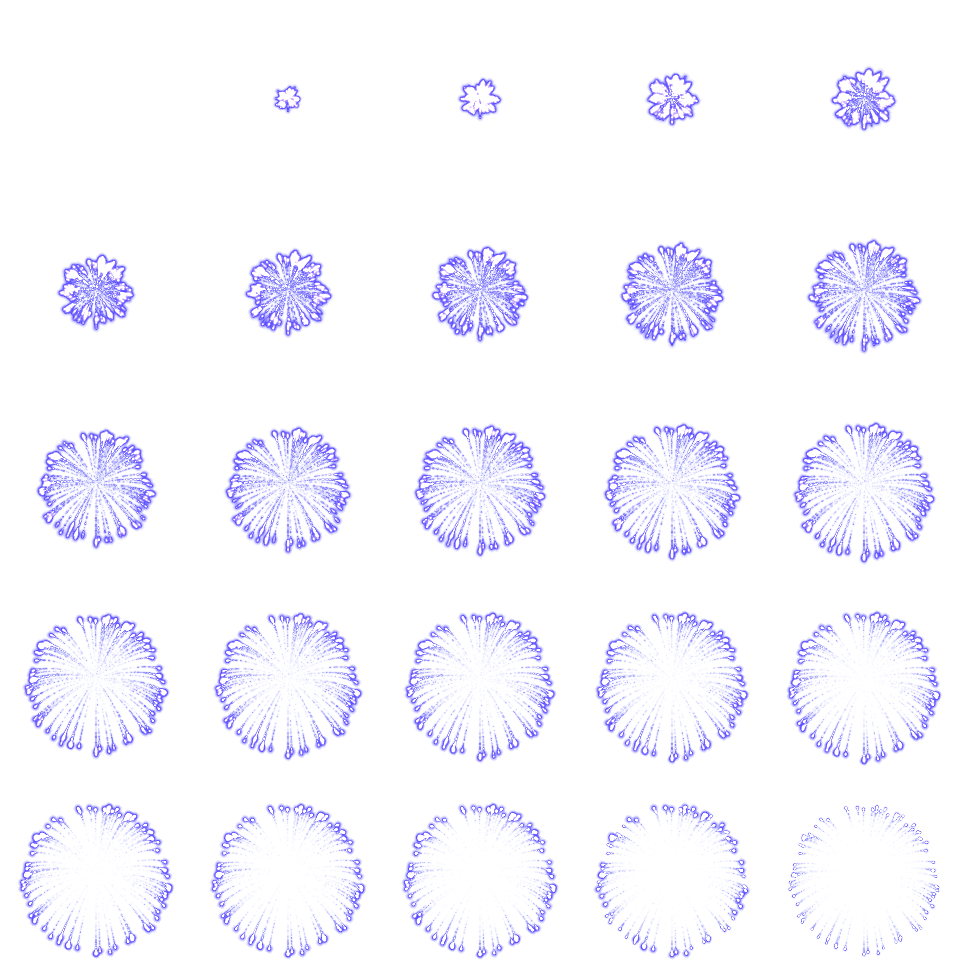
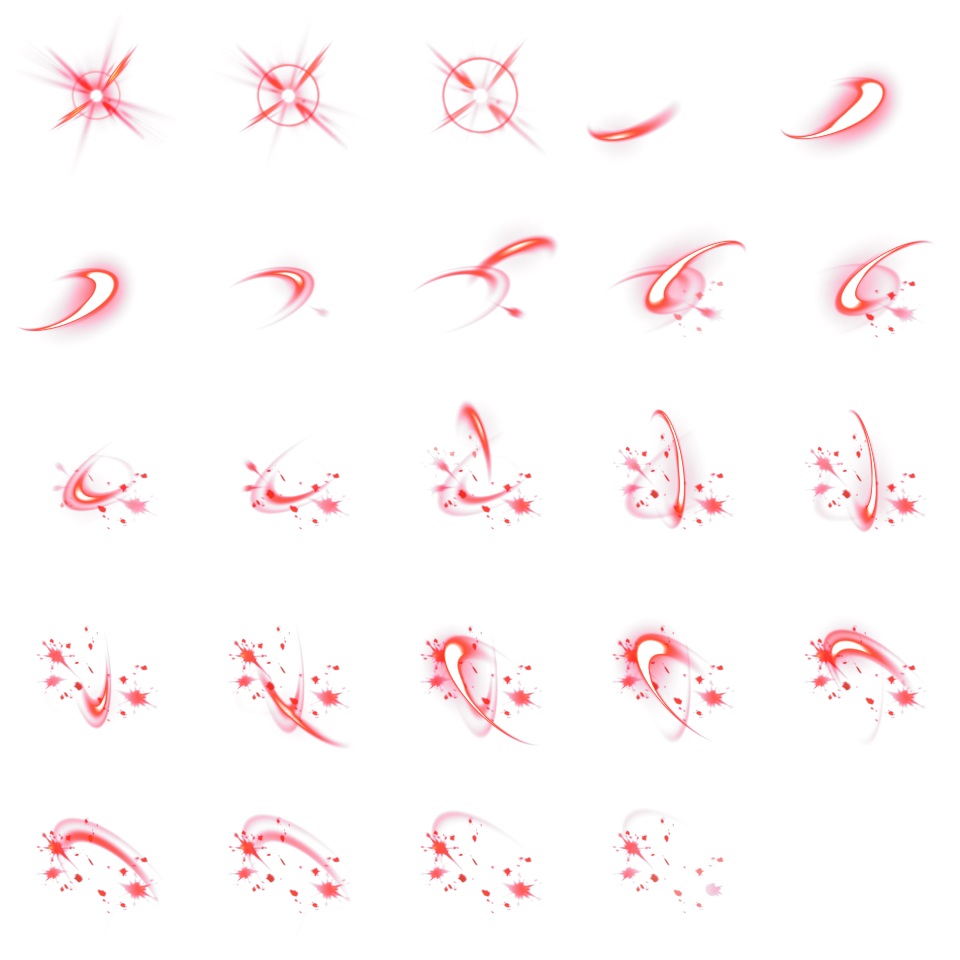
feat: update powerups with spritesheets

diff --git a/src/powerups/powerup.js b/src/powerups/powerup.js
@@ -18,27 +18,57 @@ class PowerUp {
         this.type = config.type;
         this.config = GameConfig.powerups.types[this.type];
         
+        this.spriteKeyMap = {
+            'speed_boost': 'powerup_speed',
+            'fire_rate_boost': 'powerup_fire',
+            'damage_boost': 'powerup_damage',
+            'heal': 'powerup_heal',
+            'slow_down': 'powerup_slow',
+            'poison': 'powerup_poison'
+        };
+        
         this.sprite = null;
         this.text = null;
         this.isActive = true;
     }
 
     /**
-     * Crea el sprite del powerup (mismo para todos)
+     * Crea el sprite del powerup 
      */
     create() {
-        // Círculo coloreado temporal (luego puedes reemplazar con sprites)
-        this.sprite = this.scene.add.circle(this.x, this.y, 14, this.config.color);
+        const spriteKey = this.spriteKeyMap[this.type];
+        
+        // Verificar que existe el spritesheet
+        if (!this.scene.textures.exists(spriteKey)) {
+            console.error(`[PowerUp] Spritesheet no encontrado: ${spriteKey} para tipo ${this.type}`);
+            return;
+        }
+        
+        // Crear sprite con frame 0
+        this.sprite = this.scene.add.sprite(this.x, this.y, spriteKey, 0);
         this.sprite.setDepth(900);
-        this.sprite.setStrokeStyle(2, 0xffffff);
+        this.sprite.setScale(1.5);
         
         // Agregar física
         this.scene.physics.add.existing(this.sprite);
-        this.sprite.body.setCircle(14);
+        this.sprite.body.setCircle(16);
         this.sprite.body.setImmovable(true);
         
-        // Texto del powerup
-        this.text = this.scene.add.text(this.x, this.y - 22, this.config.name, {
+        // ANIMACIÓN de los 3 frames
+        this.scene.anims.create({
+            key: `anim_${this.type}`,
+            frames: this.scene.anims.generateFrameNumbers(spriteKey, {
+                start: 0,
+                end: 2
+            }),
+            frameRate: 6,
+            repeat: -1
+        });
+        
+        this.sprite.anims.play(`anim_${this.type}`);
+        
+        // Texto opcional
+        this.text = this.scene.add.text(this.x, this.y - 28, this.config.name, {
             font: 'bold 10px Arial',
             fill: '#ffffff',
             stroke: '#000000',
@@ -52,17 +82,6 @@ class PowerUp {
             targets: [this.sprite, this.text],
             y: this.y - 8,
             duration: 1200,
-            yoyo: true,
-            repeat: -1,
-            ease: 'Sine.easeInOut'
-        });
-        
-        // Animación de brillo
-        this.scene.tweens.add({
-            targets: this.sprite,
-            scaleX: 1.1,
-            scaleY: 1.1,
-            duration: 500,
             yoyo: true,
             repeat: -1,
             ease: 'Sine.easeInOut'
